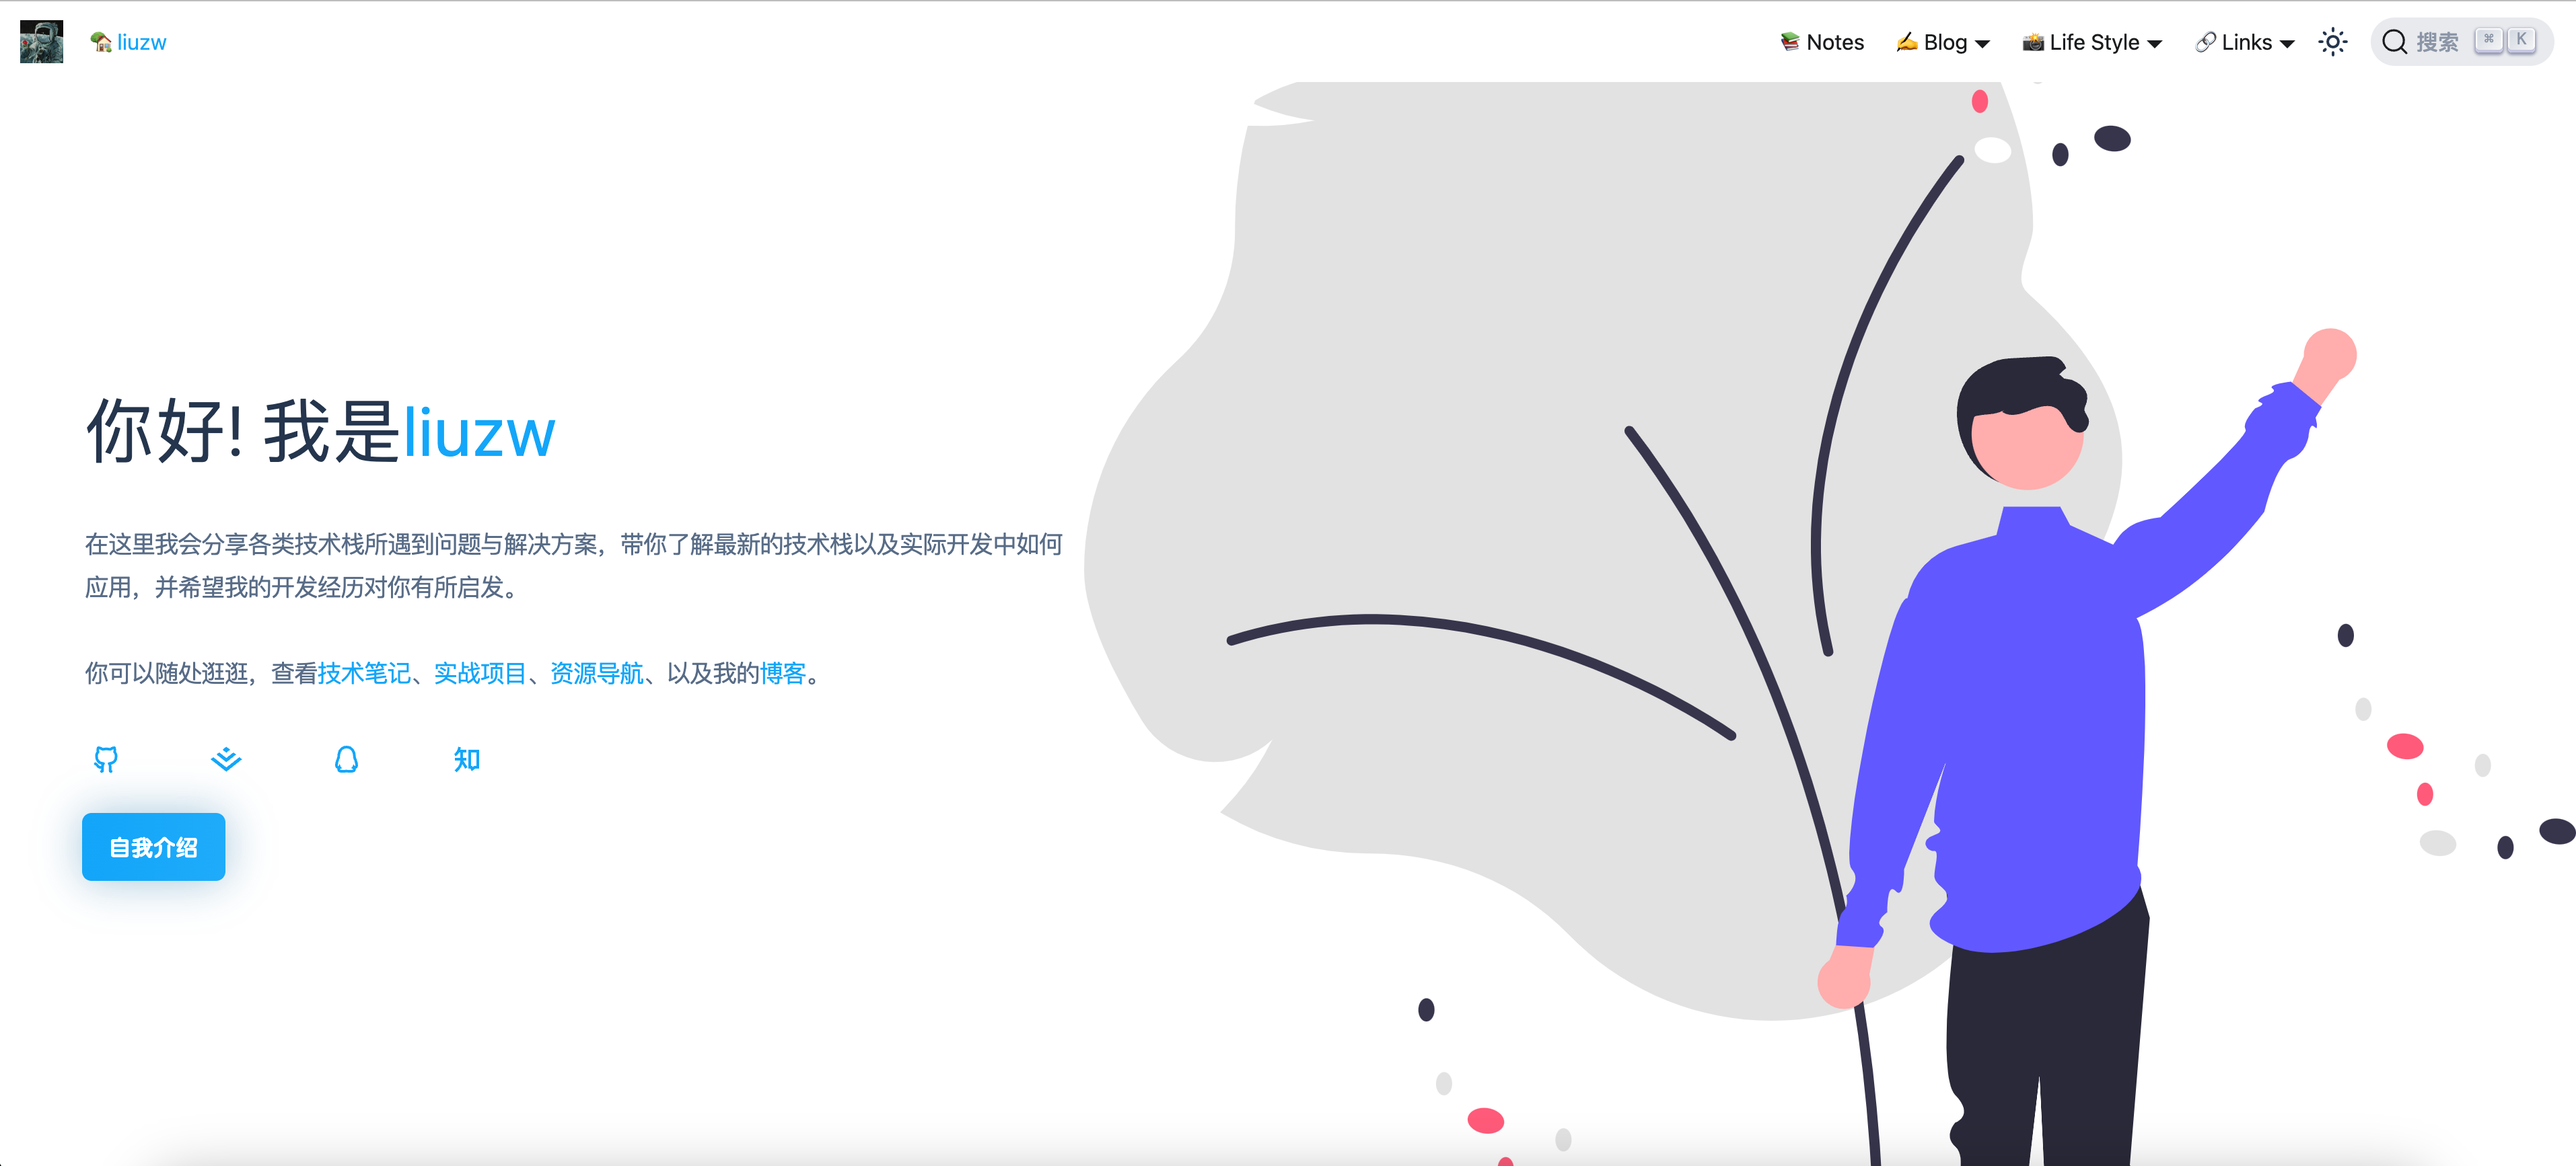
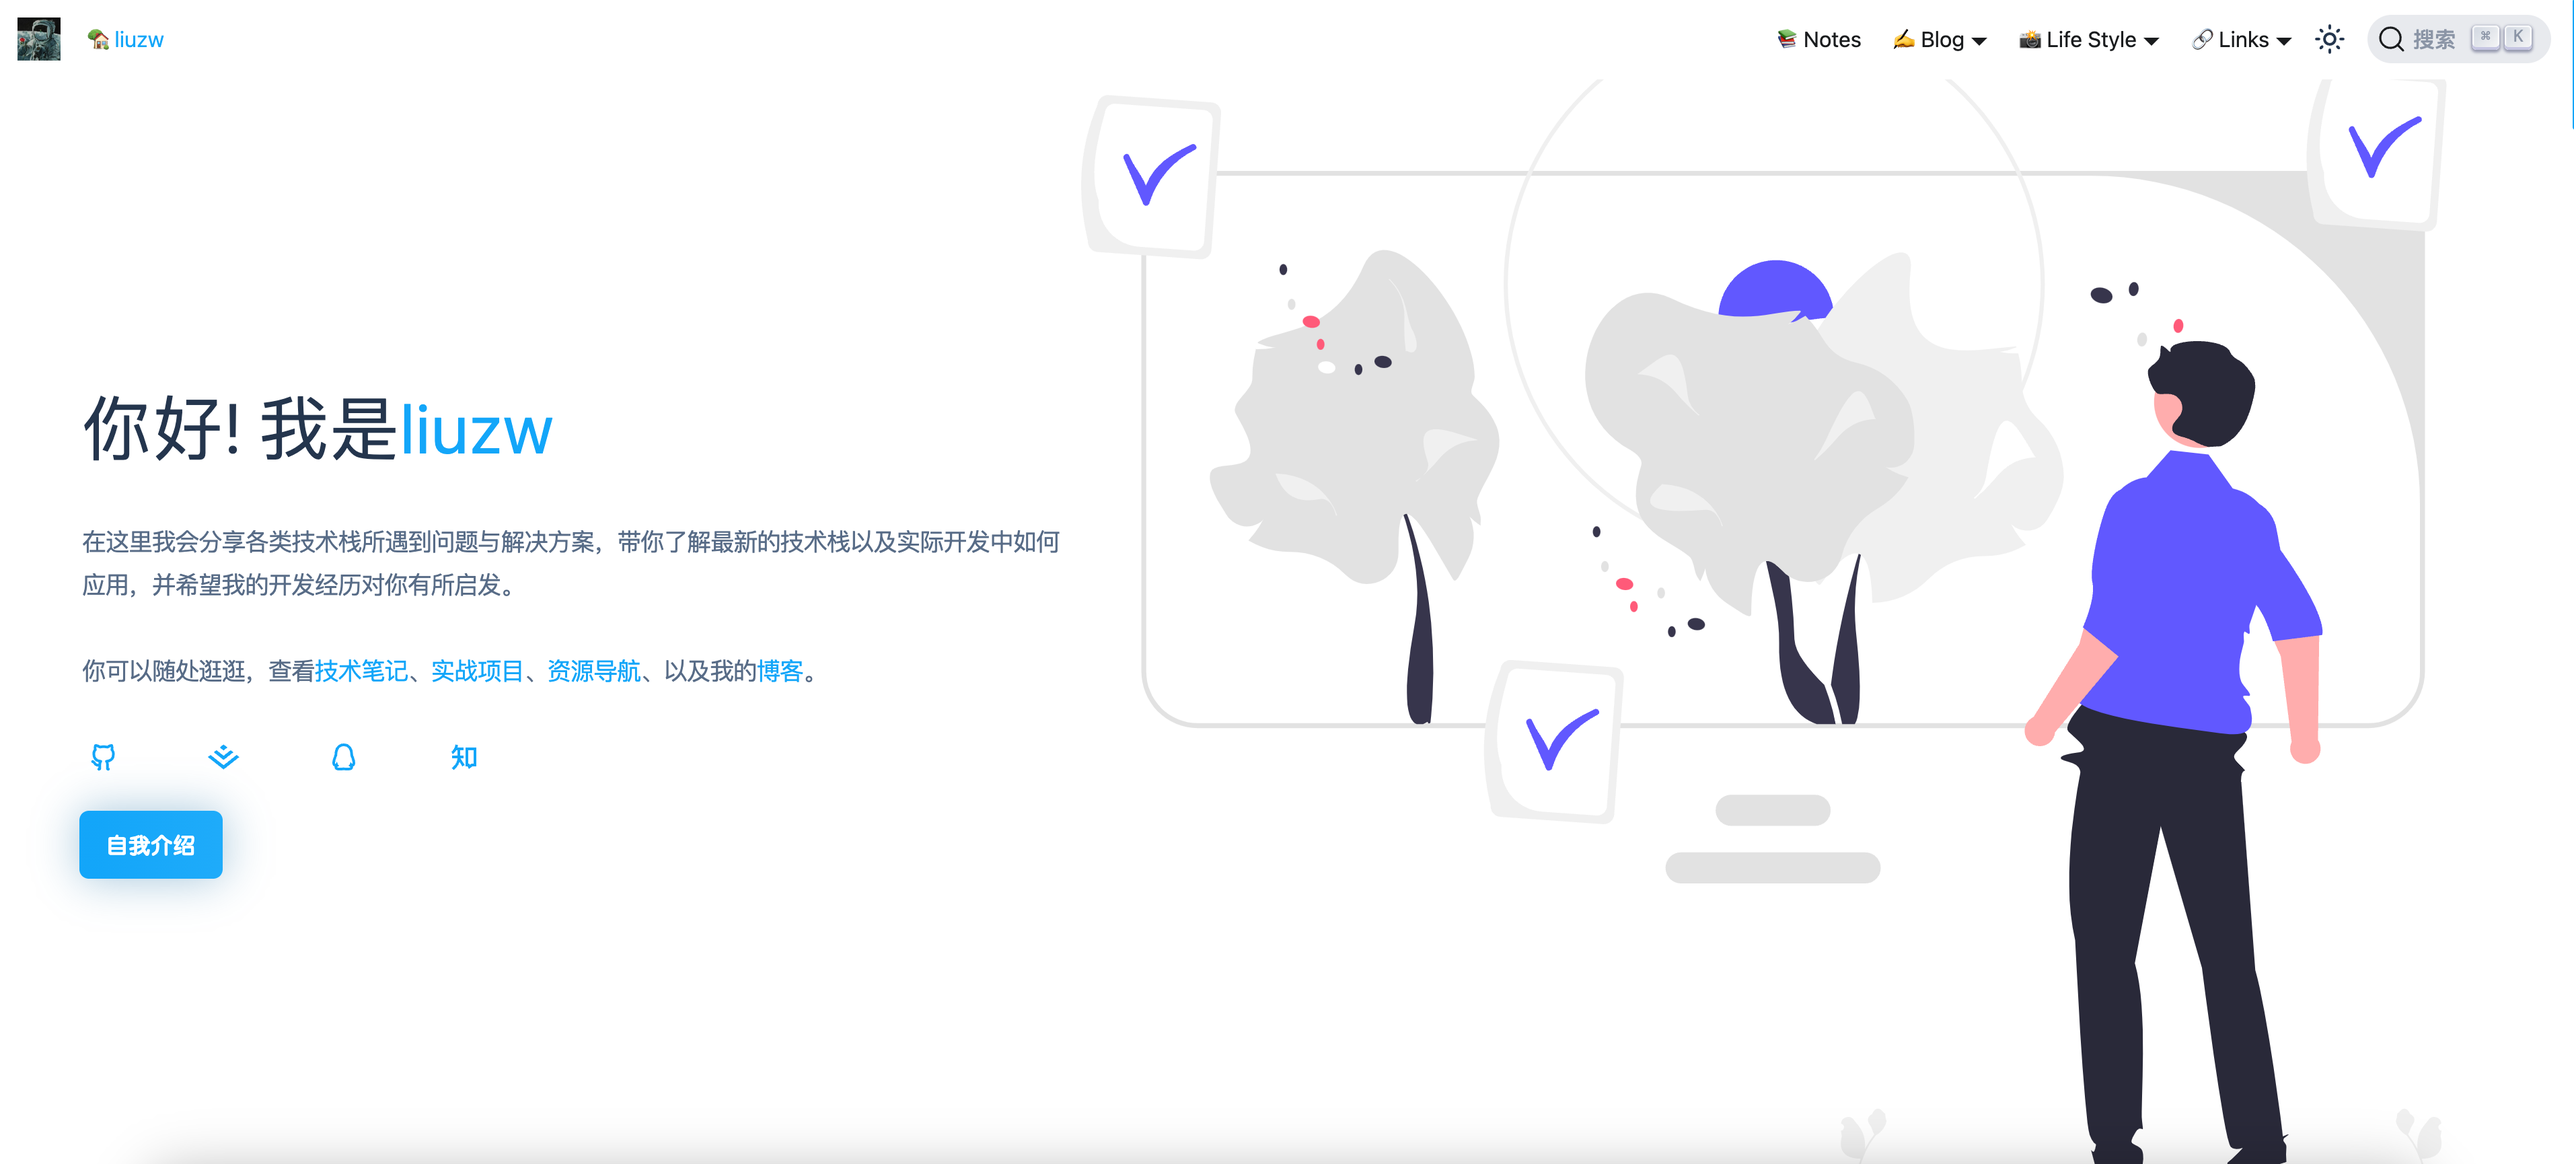
docs: change background image

diff --git a/src/components/Hero/index.tsx b/src/components/Hero/index.tsx
@@ -7,7 +7,7 @@ import { ThemeConfig } from '@docusaurus/preset-classic'
 
 import Link from '@docusaurus/Link'
 
-import HeroMain from './img/welcome.svg'
+import HeroMain from './img/image.svg'
 
 import JuejinIcon from '@site/static/svg/juejin.svg'
 import { Icon } from '@iconify/react'
